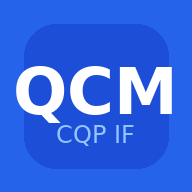
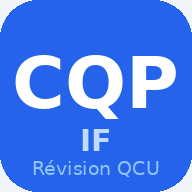
feat: store-ready — manifest mis à jour, icônes améliorées, assetlinks.json, privacy.html, SW cache v411

diff --git a/privacy.html b/privacy.html
@@ -1,0 +1,36 @@
+<!DOCTYPE html>
+<html lang="fr">
+<head>
+<meta charset="UTF-8"/>
+<meta name="viewport" content="width=device-width, initial-scale=1.0"/>
+<title>Politique de confidentialité — CQP IF Révision QCU</title>
+<style>
+  body{font-family:system-ui,sans-serif;max-width:600px;margin:40px auto;padding:0 20px;color:#1e293b;line-height:1.7}
+  h1{color:#2563eb;font-size:22px}
+  h2{font-size:16px;margin-top:28px;color:#1e293b}
+  p,li{font-size:14px;color:#475569}
+</style>
+</head>
+<body>
+<h1>Politique de confidentialité</h1>
+<p><strong>CQP IF — Révision QCU</strong><br>Dernière mise à jour : mars 2026</p>
+
+<h2>Données collectées</h2>
+<p>Cette application <strong>ne collecte aucune donnée personnelle</strong>. Aucun compte utilisateur n'est requis.</p>
+
+<h2>Stockage local</h2>
+<p>Toute votre progression (scores, statistiques, préférences) est stockée <strong>uniquement sur votre appareil</strong> via IndexedDB et localStorage. Ces données ne sont jamais transmises à nos serveurs ni à des tiers.</p>
+
+<h2>Données transmises</h2>
+<p>L'application charge son contenu depuis nos serveurs (Vercel) uniquement au premier lancement. Une fois installée, elle fonctionne <strong>entièrement hors connexion</strong>. Aucune donnée utilisateur n'est envoyée lors de ces échanges.</p>
+
+<h2>Cookies et traceurs</h2>
+<p>L'application n'utilise <strong>aucun cookie</strong> et aucun traceur publicitaire ou analytique.</p>
+
+<h2>Droits</h2>
+<p>Vos données étant stockées localement sur votre appareil, vous en avez le contrôle total. Vous pouvez les supprimer à tout moment via les paramètres de votre appareil (Paramètres → Applications → CQP IF → Vider les données).</p>
+
+<h2>Contact</h2>
+<p>Pour toute question : <a href="mailto:contact@TON_DOMAINE.FR">contact@TON_DOMAINE.FR</a></p>
+</body>
+</html>

diff --git a/sw.js b/sw.js
@@ -1,4 +1,4 @@
-const CACHE = 'cqp-v4';
+const CACHE = 'cqp-v411';
 const ASSETS = ['/', '/index.html', '/manifest.json'];
 
 // Install: cache silencieusement, skipWaiting pour activation immédiate
